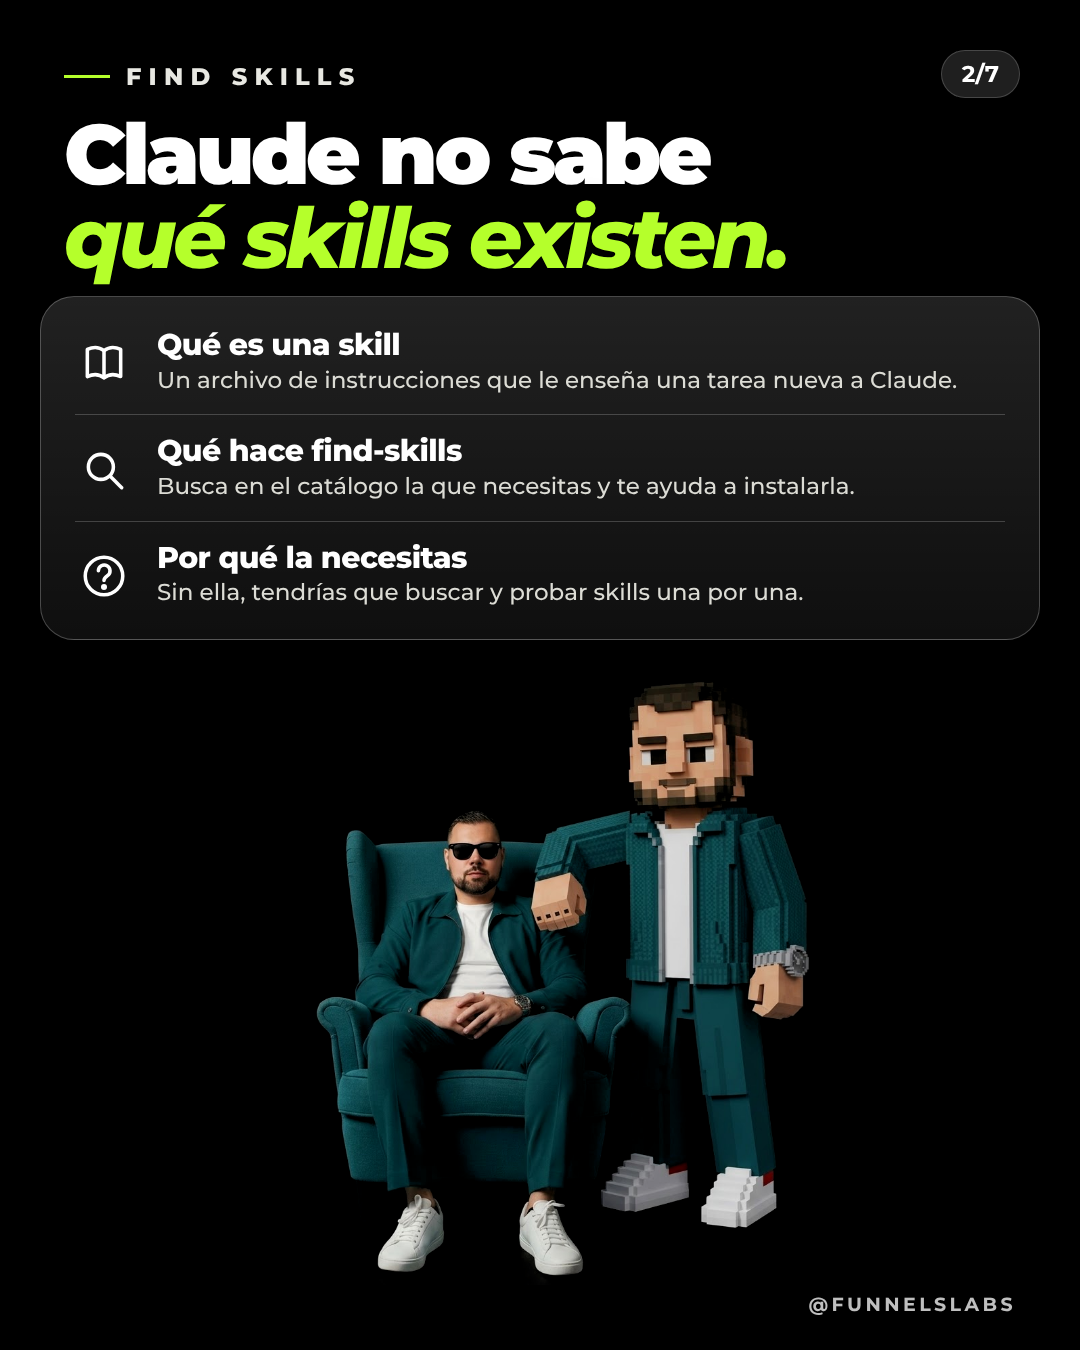
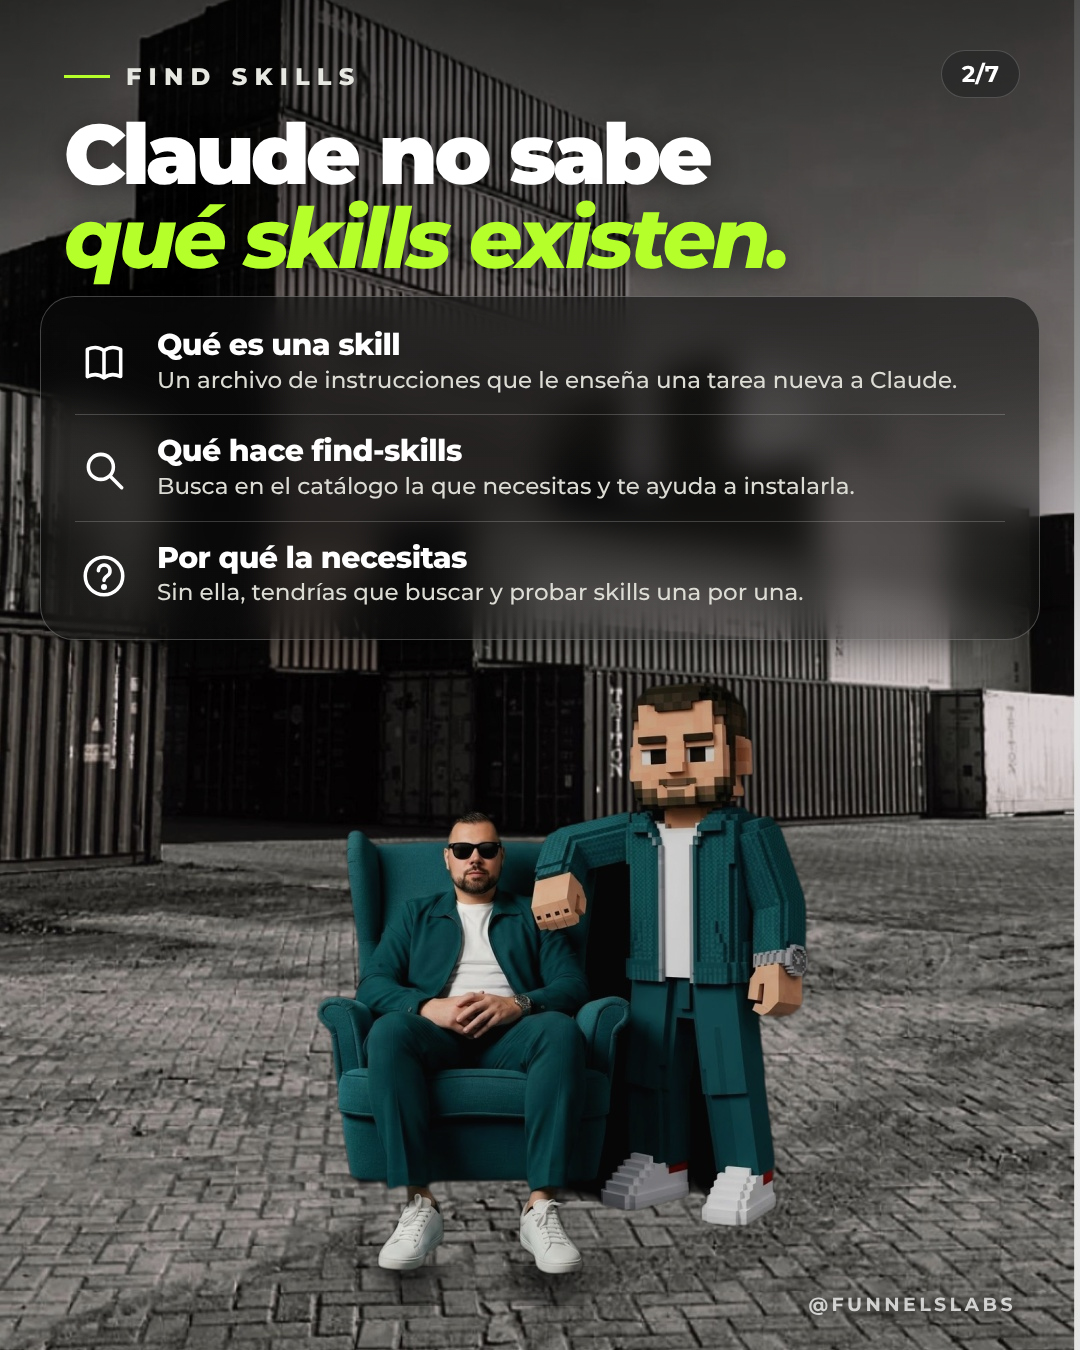
find-skills: fondos urbanos reales detrás de los personajes
Recorte de personajes con rembg y composición sobre 6 fondos (fondos.py),
sombras de contacto y ajuste de color. Slide 4 mantiene el asfalto.

Claude-Session: https://claude.ai/code/session_018d4LXHkXweDJXxfN5x99dL

diff --git a/carruseles/find-skills/carrusel.html b/carruseles/find-skills/carrusel.html
@@ -9,7 +9,7 @@ body{background:#333;font-family:"Montserrat",Arial,sans-serif;display:flex;flex
 .ph{position:absolute;-webkit-mask-image:linear-gradient(90deg,transparent 0,#000 9%,#000 91%,transparent 100%);mask-image:linear-gradient(90deg,transparent 0,#000 9%,#000 91%,transparent 100%)}
 .ph img{display:block;width:100%;height:auto}
 .bleed{position:absolute;inset:0;width:100%;height:100%;object-fit:cover}
-.shade{position:absolute;inset:0;background:linear-gradient(180deg,rgba(0,0,0,.62) 0,rgba(0,0,0,.3) 34%,rgba(0,0,0,0) 52%)}
+.shade{position:absolute;inset:0;background:linear-gradient(180deg,rgba(0,0,0,.66) 0,rgba(0,0,0,.34) 30%,rgba(0,0,0,0) 48%)}
 .n{position:absolute;top:50px;right:60px;z-index:5;background:rgba(40,40,40,.78);border:1px solid rgba(255,255,255,.18);color:#fff;font-weight:700;font-size:23px;padding:9px 20px;border-radius:99px}
 .kick{position:absolute;z-index:5;left:64px;top:62px;font-weight:800;font-size:24px;letter-spacing:.3em;text-transform:uppercase;color:#e8e8e2;display:flex;align-items:center;gap:16px}
 .kick i{width:46px;height:3px;background:var(--lime);display:block}
@@ -18,7 +18,7 @@ body{background:#333;font-family:"Montserrat",Arial,sans-serif;display:flex;flex
 .h .pill{display:inline-block;background:var(--lime);color:#0a0a0a;border-radius:18px;padding:0 22px 6px;margin-left:6px;text-shadow:none}
 .sub{position:absolute;z-index:5;left:64px;right:64px;top:318px;font-weight:600;font-size:31px;line-height:1.3;color:#ececE6;letter-spacing:-0.01em;text-shadow:0 2px 18px rgba(0,0,0,.6)}
 .sub b{color:#fff;font-weight:800}
-.panel{position:absolute;z-index:5;left:40px;right:40px;border-radius:34px;padding:12px 34px;background:linear-gradient(180deg,rgba(255,255,255,.13),rgba(255,255,255,.06));border:1.5px solid rgba(255,255,255,.24);backdrop-filter:blur(18px);-webkit-backdrop-filter:blur(18px);box-shadow:0 30px 60px -30px rgba(0,0,0,.8)}
+.panel{position:absolute;z-index:5;left:40px;right:40px;border-radius:34px;padding:12px 34px;background:linear-gradient(180deg,rgba(12,12,12,.58),rgba(12,12,12,.46));border:1.5px solid rgba(255,255,255,.24);backdrop-filter:blur(18px);-webkit-backdrop-filter:blur(18px);box-shadow:0 30px 60px -30px rgba(0,0,0,.8)}
 .row{display:flex;gap:24px;align-items:center;padding:19px 0;border-bottom:1px solid rgba(255,255,255,.2)}
 .row.last{border-bottom:0}
 .cmp .row{padding:10px 0}.cmp .note{padding-bottom:10px}
@@ -33,17 +33,17 @@ body{background:#333;font-family:"Montserrat",Arial,sans-serif;display:flex;flex
 .note{font-size:23px;font-weight:500;color:#dcdcd5;padding:4px 4px 16px;border-bottom:1px solid rgba(255,255,255,.2)}
 .foot{position:absolute;z-index:6;right:64px;bottom:34px;text-align:right;font-weight:700;font-size:19px;letter-spacing:.18em;text-transform:uppercase;color:rgba(255,255,255,.75);text-shadow:0 2px 12px rgba(0,0,0,.9)}
 </style></head><body>
-<section class="slide"><div class="ph" style="width:860px;top:404px;left:110px;"><img src="img/brazos-c.png"></div><div class="n">1/7</div><div class="kick"><i></i>Find skills</div><div class="h" style="font-size:88px">Instala una sola skill.<br><span class="l">Que sea esta.</span></div><div class="sub">La más instalada de skills.sh: <b>más de 3 millones</b> de instalaciones.</div><div class="foot"><span>@funnelslabs</span></div></section><section class="slide"><div class="ph" style="width:628px;top:662px;left:226px;"><img src="img/silla-lado-c.png"></div><div class="n">2/7</div><div class="kick"><i></i>Find skills</div><div class="h" style="font-size:84px">Claude no sabe<br><span class="l">qué skills existen.</span></div>
+<section class="slide"><img class="bleed" src="img/f1.jpg"><div class="shade"></div><div class="n">1/7</div><div class="kick"><i></i>Find skills</div><div class="h" style="font-size:88px">Instala una sola skill.<br><span class="l">Que sea esta.</span></div><div class="sub">La más instalada de skills.sh: <b>más de 3 millones</b> de instalaciones.</div><div class="foot"><span>@funnelslabs</span></div></section><section class="slide"><img class="bleed" src="img/f2.jpg"><div class="shade"></div><div class="n">2/7</div><div class="kick"><i></i>Find skills</div><div class="h" style="font-size:84px">Claude no sabe<br><span class="l">qué skills existen.</span></div>
 <div class="panel" style="top:296px">
 <div class="row"><span class="ic"><svg viewBox="0 0 24 24" fill="none" stroke="currentColor" stroke-width="1.7" stroke-linecap="round" stroke-linejoin="round"><path d="M4 5.5c3-1.4 5.7-1.2 8 .6 2.3-1.8 5-2 8-.6v13c-3-1.4-5.7-1.2-8 .6-2.3-1.8-5-2-8-.6z"/><path d="M12 6.1v13"/></svg></span><div><b>Qué es una skill</b><span>Un archivo de instrucciones que le enseña una tarea nueva a Claude.</span></div></div>
 <div class="row"><span class="ic"><svg viewBox="0 0 24 24" fill="none" stroke="currentColor" stroke-width="1.7" stroke-linecap="round" stroke-linejoin="round"><circle cx="10.5" cy="10.5" r="6"/><path d="M15 15l5.5 5.5"/></svg></span><div><b>Qué hace find-skills</b><span>Busca en el catálogo la que necesitas y te ayuda a instalarla.</span></div></div>
 <div class="row last"><span class="ic"><svg viewBox="0 0 24 24" fill="none" stroke="currentColor" stroke-width="1.7" stroke-linecap="round" stroke-linejoin="round"><circle cx="12" cy="12" r="9"/><path d="M9.3 9.5a2.8 2.8 0 1 1 4.3 2.4c-.9.6-1.6 1.1-1.6 2.3"/><circle cx="12" cy="17.3" r=".6" fill="currentColor"/></svg></span><div><b>Por qué la necesitas</b><span>Sin ella, tendrías que buscar y probar skills una por una.</span></div></div>
-</div><div class="foot"><span>@funnelslabs</span></div></section><section class="slide"><div class="ph" style="width:545px;top:720px;left:267px;"><img src="img/chat-c.png"></div><div class="n">3/7</div><div class="kick"><i></i>Find skills</div><div class="h" style="font-size:84px">Dile qué necesitas,<br><span class="l">sin saber el nombre.</span></div>
+</div><div class="foot"><span>@funnelslabs</span></div></section><section class="slide"><img class="bleed" src="img/f3.jpg"><div class="shade"></div><div class="n">3/7</div><div class="kick"><i></i>Find skills</div><div class="h" style="font-size:84px">Dile qué necesitas,<br><span class="l">sin saber el nombre.</span></div>
 <div class="panel" style="top:296px">
 <div class="ph2">Pídeselo con tus propias palabras</div>
 <div class="chips"><span>¿Cómo respondo más rápido mis mensajes de WhatsApp?</span><span>Busca una skill para crear mis carruseles.</span><span>¿Existe una skill que revise la ortografía de mis textos?</span></div>
 <div class="row last"><span class="ic"><svg viewBox="0 0 24 24" fill="none" stroke="currentColor" stroke-width="1.7" stroke-linecap="round" stroke-linejoin="round"><path d="M12 3l7.5 3v5.5c0 4.5-3.2 8-7.5 9.5-4.3-1.5-7.5-5-7.5-9.5V6z"/><path d="M9 12l2.2 2.2L15.5 10"/></svg></span><div><b>Antes de instalarla</b><span>Revisa sus auditorías de seguridad en skills.sh. Una skill puede hacer lo mismo que tu Claude.</span></div></div>
-</div><div class="foot"><span>@funnelslabs</span></div></section><section class="slide"><img class="bleed" src="img/asfalto.png"><div class="shade"></div><div class="n">4/7</div><div class="kick"><i></i>Find skills</div><div class="h" style="font-size:96px">Una skill para<br><span class="l">encontrarlas todas.</span></div><div class="sub">Tú le dices qué necesitas. Ella busca por ti.</div><div class="foot"><span>@funnelslabs</span></div></section><section class="slide"><div class="ph" style="width:554px;top:744px;left:263px;"><img src="img/caminando-c.png"></div><div class="n">5/7</div><div class="kick"><i></i>Find skills</div><div class="h" style="font-size:84px">Instálala con<br><span class="l">un solo comando.</span></div>
+</div><div class="foot"><span>@funnelslabs</span></div></section><section class="slide"><img class="bleed" src="img/asfalto.png"><div class="shade"></div><div class="n">4/7</div><div class="kick"><i></i>Find skills</div><div class="h" style="font-size:96px">Una skill para<br><span class="l">encontrarlas todas.</span></div><div class="sub">Tú le dices qué necesitas. Ella busca por ti.</div><div class="foot"><span>@funnelslabs</span></div></section><section class="slide"><img class="bleed" src="img/f5.jpg"><div class="shade"></div><div class="n">5/7</div><div class="kick"><i></i>Find skills</div><div class="h" style="font-size:84px">Instálala con<br><span class="l">un solo comando.</span></div>
 <div class="panel cmp" style="top:296px">
 <div class="code">npx skills add vercel-labs/skills --skill find-skills -a claude-code -g -y</div>
 <div class="note">Pégalo en tu terminal. Queda disponible en todos tus proyectos.</div>
@@ -51,10 +51,10 @@ body{background:#333;font-family:"Montserrat",Arial,sans-serif;display:flex;flex
 <div class="row"><span class="ic"><svg viewBox="0 0 24 24" fill="none" stroke="currentColor" stroke-width="1.7" stroke-linecap="round" stroke-linejoin="round"><path d="M4 5h16v11H9.5L5 20v-4H4z"/></svg></span><div><b>En Claude</b><span>Pídeselo como hablas.</span></div></div>
 <div class="row"><span class="ic"><svg viewBox="0 0 24 24" fill="none" stroke="currentColor" stroke-width="1.7" stroke-linecap="round" stroke-linejoin="round"><rect x="3" y="4.5" width="18" height="15" rx="2.5"/><path d="M7 10l3 2.5L7 15M12.5 15H17"/></svg></span><div><b>En la terminal</b><span><code>npx skills find [palabra]</code></span></div></div>
 <div class="row last"><span class="ic"><svg viewBox="0 0 24 24" fill="none" stroke="currentColor" stroke-width="1.7" stroke-linecap="round" stroke-linejoin="round"><rect x="3" y="4.5" width="18" height="15" rx="2.5"/><path d="M3 9.5h18"/><circle cx="6" cy="7" r=".5" fill="currentColor"/><circle cx="8.2" cy="7" r=".5" fill="currentColor"/></svg></span><div><b>En la web</b><span>skills.sh: las más usadas y las nuevas.</span></div></div>
-</div><div class="foot"><span>@funnelslabs</span></div></section><section class="slide"><div class="ph" style="width:585px;top:690px;left:247px;"><img src="img/modelo-c.png"></div><div class="n">6/7</div><div class="kick"><i></i>Find skills</div><div class="h" style="font-size:88px">Hazla tuya,<br><span class="l">con tus reglas.</span></div>
+</div><div class="foot"><span>@funnelslabs</span></div></section><section class="slide"><img class="bleed" src="img/f6.jpg"><div class="shade"></div><div class="n">6/7</div><div class="kick"><i></i>Find skills</div><div class="h" style="font-size:88px">Hazla tuya,<br><span class="l">con tus reglas.</span></div>
 <div class="panel" style="top:296px">
 <div class="row"><span class="ic"><svg viewBox="0 0 24 24" fill="none" stroke="currentColor" stroke-width="1.7" stroke-linecap="round" stroke-linejoin="round"><circle cx="12" cy="12" r="9"/><path d="M10.5 9.5L12.5 8v8"/></svg></span><div><b>1 · Encuentra la skill</b><span>find-skills te muestra la que más se parece a lo que haces.</span></div></div>
 <div class="row"><span class="ic"><svg viewBox="0 0 24 24" fill="none" stroke="currentColor" stroke-width="1.7" stroke-linecap="round" stroke-linejoin="round"><path d="M4 20l1-4L16.5 4.5a2 2 0 0 1 3 3L8 19z"/><path d="M14.5 6.5l3 3"/></svg></span><div><b>2 · Pídele a Claude que la adapte</b><span>Cuéntale cómo es tu negocio y cómo trabajas.</span></div></div>
 <div class="row last"><span class="ic"><svg viewBox="0 0 24 24" fill="none" stroke="currentColor" stroke-width="1.7" stroke-linecap="round" stroke-linejoin="round"><path d="M3.5 7.5a2 2 0 0 1 2-2H10l2 2.5h6.5a2 2 0 0 1 2 2V17a2 2 0 0 1-2 2h-13a2 2 0 0 1-2-2z"/><rect x="9.5" y="12.5" width="5" height="4" rx=".8"/></svg></span><div><b>3 · Guárdala con otro nombre</b><span>Así, cuando salga una versión nueva, no pierdes tus cambios.</span></div></div>
-</div><div class="foot"><span>@funnelslabs</span></div></section><section class="slide"><div class="ph" style="width:744px;top:430px;left:168px;"><img src="img/abrazo-c.png"></div><div class="n">7/7</div><div class="kick"><i></i>Find skills</div><div class="h" style="font-size:92px">Escribe <span class="pill">SKILLS</span><br><span class="l">y te envío la guía.</span></div><div class="sub">Con el paso a paso para instalarla y adaptarla a tu negocio.</div><div class="foot"><span>@funnelslabs</span></div></section>
+</div><div class="foot"><span>@funnelslabs</span></div></section><section class="slide"><img class="bleed" src="img/f7.jpg"><div class="shade"></div><div class="n">7/7</div><div class="kick"><i></i>Find skills</div><div class="h" style="font-size:92px">Escribe <span class="pill">SKILLS</span><br><span class="l">y te envío la guía.</span></div><div class="sub">Con el paso a paso para instalarla y adaptarla a tu negocio.</div><div class="foot"><span>@funnelslabs</span></div></section>
 </body></html>

diff --git a/carruseles/find-skills/generar.py b/carruseles/find-skills/generar.py
@@ -1,13 +1,5 @@
 import cv2, os
 os.chdir(os.path.dirname(os.path.abspath(__file__)))
-# recortes: (archivo, y0 = fila donde empieza el contenido - margen)
-CROP={'brazos':194,'silla-lado':232,'chat':172,'caminando':227,'modelo':171,'abrazo':72}
-import numpy as np
-for n,y0 in CROP.items():
-    im=cv2.imread(f'img/{n}.png')[y0:].astype(np.float32)
-    m=np.clip((im.max(2)-8)/18,0,1)[...,None]
-    cv2.imwrite(f'img/{n}-c.png',np.clip(im*m,0,255).astype(np.uint8))
-
 ICON={
 'book':'<path d="M4 5.5c3-1.4 5.7-1.2 8 .6 2.3-1.8 5-2 8-.6v13c-3-1.4-5.7-1.2-8 .6-2.3-1.8-5-2-8-.6z"/><path d="M12 6.1v13"/>',
 'search':'<circle cx="10.5" cy="10.5" r="6"/><path d="M15 15l5.5 5.5"/>',
@@ -25,6 +17,7 @@ def row(k,t,d,last=False): return f'<div class="row{" last" if last else ""}"><s
 
 def photo(n,W,T,dx=0,extra=''):
     return f'<div class="ph" style="width:{W}px;top:{T}px;left:{(1080-W)//2+dx}px;{extra}"><img src="img/{n}-c.png"></div>'
+def BG(n): return f'<img class="bleed" src="img/f{n}.jpg"><div class="shade"></div>'
 def head(i,l1,l2,sub=None,size=88):
     s=f'<div class="n">{i}/7</div><div class="kick"><i></i>Find skills</div><div class="h" style="font-size:{size}px">{l1}<br><span class="l">{l2}</span></div>'
     if sub: s+=f'<div class="sub">{sub}</div>'
@@ -33,16 +26,16 @@ foot='<div class="foot"><span>@funnelslabs</span></div>'
 
 S=[]
 # 1 portada
-S.append(f'''<section class="slide">{photo('brazos',860,404)}{head(1,'Instala una sola skill.','Que sea esta.','La más instalada de skills.sh: <b>más de 3 millones</b> de instalaciones.',88)}{foot}</section>''')
+S.append(f'''<section class="slide">{BG(1)}{head(1,'Instala una sola skill.','Que sea esta.','La más instalada de skills.sh: <b>más de 3 millones</b> de instalaciones.',88)}{foot}</section>''')
 # 2 qué es
-S.append(f'''<section class="slide">{photo('silla-lado',628,662)}{head(2,'Claude no sabe','qué skills existen.',None,84)}
+S.append(f'''<section class="slide">{BG(2)}{head(2,'Claude no sabe','qué skills existen.',None,84)}
 <div class="panel" style="top:296px">
 {row('book','Qué es una skill','Un archivo de instrucciones que le enseña una tarea nueva a Claude.')}
 {row('search','Qué hace find-skills','Busca en el catálogo la que necesitas y te ayuda a instalarla.')}
 {row('help','Por qué la necesitas','Sin ella, tendrías que buscar y probar skills una por una.',True)}
 </div>{foot}</section>''')
 # 3 cuéntale
-S.append(f'''<section class="slide">{photo('chat',545,720)}{head(3,'Dile qué necesitas,','sin saber el nombre.',None,84)}
+S.append(f'''<section class="slide">{BG(3)}{head(3,'Dile qué necesitas,','sin saber el nombre.',None,84)}
 <div class="panel" style="top:296px">
 <div class="ph2">Pídeselo con tus propias palabras</div>
 <div class="chips"><span>¿Cómo respondo más rápido mis mensajes de WhatsApp?</span><span>Busca una skill para crear mis carruseles.</span><span>¿Existe una skill que revise la ortografía de mis textos?</span></div>
@@ -51,7 +44,7 @@ S.append(f'''<section class="slide">{photo('chat',545,720)}{head(3,'Dile qué ne
 # 4 afirmación (asfalto a sangre)
 S.append(f'''<section class="slide"><img class="bleed" src="img/asfalto.png"><div class="shade"></div>{head(4,'Una skill para','encontrarlas todas.','Tú le dices qué necesitas. Ella busca por ti.',96)}{foot}</section>''')
 # 5 instalar
-S.append(f'''<section class="slide">{photo('caminando',554,744)}{head(5,'Instálala con','un solo comando.',None,84)}
+S.append(f'''<section class="slide">{BG(5)}{head(5,'Instálala con','un solo comando.',None,84)}
 <div class="panel cmp" style="top:296px">
 <div class="code">npx skills add vercel-labs/skills --skill find-skills -a claude-code -g -y</div>
 <div class="note">Pégalo en tu terminal. Queda disponible en todos tus proyectos.</div>
@@ -61,14 +54,14 @@ S.append(f'''<section class="slide">{photo('caminando',554,744)}{head(5,'Instál
 {row('web','En la web','skills.sh: las más usadas y las nuevas.',True)}
 </div>{foot}</section>''')
 # 6 hazla tuya
-S.append(f'''<section class="slide">{photo('modelo',585,690)}{head(6,'Hazla tuya,','con tus reglas.',None,88)}
+S.append(f'''<section class="slide">{BG(6)}{head(6,'Hazla tuya,','con tus reglas.',None,88)}
 <div class="panel" style="top:296px">
 {row('one','1 · Encuentra la skill','find-skills te muestra la que más se parece a lo que haces.')}
 {row('pencil','2 · Pídele a Claude que la adapte','Cuéntale cómo es tu negocio y cómo trabajas.')}
 {row('folder','3 · Guárdala con otro nombre','Así, cuando salga una versión nueva, no pierdes tus cambios.',True)}
 </div>{foot}</section>''')
 # 7 CTA
-S.append(f'''<section class="slide">{photo('abrazo',744,430)}{head(7,'Escribe <span class="pill">SKILLS</span>','y te envío la guía.','Con el paso a paso para instalarla y adaptarla a tu negocio.',92)}{foot}</section>''')
+S.append(f'''<section class="slide">{BG(7)}{head(7,'Escribe <span class="pill">SKILLS</span>','y te envío la guía.','Con el paso a paso para instalarla y adaptarla a tu negocio.',92)}{foot}</section>''')
 
 css='''
 :root{--lime:#b5ff2b}
@@ -78,7 +71,7 @@ body{background:#333;font-family:"Montserrat",Arial,sans-serif;display:flex;flex
 .ph{position:absolute;-webkit-mask-image:linear-gradient(90deg,transparent 0,#000 9%,#000 91%,transparent 100%);mask-image:linear-gradient(90deg,transparent 0,#000 9%,#000 91%,transparent 100%)}
 .ph img{display:block;width:100%;height:auto}
 .bleed{position:absolute;inset:0;width:100%;height:100%;object-fit:cover}
-.shade{position:absolute;inset:0;background:linear-gradient(180deg,rgba(0,0,0,.62) 0,rgba(0,0,0,.3) 34%,rgba(0,0,0,0) 52%)}
+.shade{position:absolute;inset:0;background:linear-gradient(180deg,rgba(0,0,0,.66) 0,rgba(0,0,0,.34) 30%,rgba(0,0,0,0) 48%)}
 .n{position:absolute;top:50px;right:60px;z-index:5;background:rgba(40,40,40,.78);border:1px solid rgba(255,255,255,.18);color:#fff;font-weight:700;font-size:23px;padding:9px 20px;border-radius:99px}
 .kick{position:absolute;z-index:5;left:64px;top:62px;font-weight:800;font-size:24px;letter-spacing:.3em;text-transform:uppercase;color:#e8e8e2;display:flex;align-items:center;gap:16px}
 .kick i{width:46px;height:3px;background:var(--lime);display:block}
@@ -87,7 +80,7 @@ body{background:#333;font-family:"Montserrat",Arial,sans-serif;display:flex;flex
 .h .pill{display:inline-block;background:var(--lime);color:#0a0a0a;border-radius:18px;padding:0 22px 6px;margin-left:6px;text-shadow:none}
 .sub{position:absolute;z-index:5;left:64px;right:64px;top:318px;font-weight:600;font-size:31px;line-height:1.3;color:#ececE6;letter-spacing:-0.01em;text-shadow:0 2px 18px rgba(0,0,0,.6)}
 .sub b{color:#fff;font-weight:800}
-.panel{position:absolute;z-index:5;left:40px;right:40px;border-radius:34px;padding:12px 34px;background:linear-gradient(180deg,rgba(255,255,255,.13),rgba(255,255,255,.06));border:1.5px solid rgba(255,255,255,.24);backdrop-filter:blur(18px);-webkit-backdrop-filter:blur(18px);box-shadow:0 30px 60px -30px rgba(0,0,0,.8)}
+.panel{position:absolute;z-index:5;left:40px;right:40px;border-radius:34px;padding:12px 34px;background:linear-gradient(180deg,rgba(12,12,12,.58),rgba(12,12,12,.46));border:1.5px solid rgba(255,255,255,.24);backdrop-filter:blur(18px);-webkit-backdrop-filter:blur(18px);box-shadow:0 30px 60px -30px rgba(0,0,0,.8)}
 .row{display:flex;gap:24px;align-items:center;padding:19px 0;border-bottom:1px solid rgba(255,255,255,.2)}
 .row.last{border-bottom:0}
 .cmp .row{padding:10px 0}.cmp .note{padding-bottom:10px}

diff --git a/carruseles/find-skills/fondos.py b/carruseles/find-skills/fondos.py
@@ -1,0 +1,78 @@
+# Compone los personajes (recortes bg/cut-*.png) sobre las fotos de fondo (bg/orig-*.jpg)
+# y deja un fondo 1080x1350 por slide en img/f<N>.jpg
+import cv2, numpy as np, os
+from PIL import Image
+os.chdir(os.path.dirname(os.path.abspath(__file__)))
+W,H=1080,1350
+# slide: (fondo, personaje, y0 del recorte original, ancho, top, dx, ajustes del fondo)
+CFG={
+ 1:dict(bg=1,ch='brazos',   y0=194,w=860,top=404,dx=0, shift=0.0,bright=.92),
+ 2:dict(bg=2,ch='silla-lado',y0=232,w=628,top=662,dx=0,shift=1.0,bright=.90),
+ 3:dict(bg=3,ch='chat',     y0=172,w=545,top=720,dx=0, shift=1.0,bright=.95),
+ 5:dict(bg=4,ch='caminando',y0=227,w=554,top=744,dx=0, shift=1.0,bright=.85,billboard=True),
+ 6:dict(bg=5,ch='modelo',   y0=171,w=585,top=690,dx=0, shift=1.0,bright=.95),
+ 7:dict(bg=6,ch='abrazo',   y0=72, w=744,top=430,dx=0, shift=0.0,bright=1.0,floor=True),
+}
+def load_bg(n,c):
+    im=cv2.imread(f'bg/orig-{n}.jpg'); h,w=im.shape[:2]
+    im=im[4:h-14,16:w-4]            # quita el margen de la captura
+    if c.get('billboard'):          # tapa el cartel blanco
+        h,w=im.shape[:2]
+        sub=(im[420:900,480:800].min(2)>225).astype(np.uint8)
+        sub=cv2.dilate(sub,np.ones((21,21),np.uint8)).astype(bool)
+        ring=im[400:920,460:820].reshape(-1,3)[~np.pad(sub,((20,20),(20,20)))[:520,:360].reshape(-1)]
+        col=np.median(ring,0)
+        noise=np.random.default_rng(1).normal(0,3,(480,320,1))
+        patch=im[420:900,480:800].astype(np.float32)
+        patch[sub]=(col+noise.repeat(3,2))[sub]
+        im[420:900,480:800]=np.clip(cv2.GaussianBlur(patch,(0,0),2),0,255).astype(np.uint8)
+    h,w=im.shape[:2]
+    s=max(W/w,H/h); im=cv2.resize(im,(int(w*s)+1,int(h*s)+1),interpolation=cv2.INTER_AREA if s<1 else cv2.INTER_CUBIC)
+    h,w=im.shape[:2]
+    x0=(w-W)//2; y0=int((h-H)*c['shift'])   # shift=1 -> alinea abajo (suelo), 0 -> arriba
+    im=im[y0:y0+H,x0:x0+W].astype(np.float32)*c['bright']
+    if c.get('floor'):              # suelo oscuro para pared sin piso
+        yy=np.linspace(0,1,H)[:,None,None]
+        k=np.clip((yy-0.80)/0.20,0,1)**1.3
+        im=im*(1-0.78*k)+np.array([14,12,10],np.float32)*0.78*k
+    return im
+def cut(c):
+    a=np.array(Image.open(f'bg/cut-{c["ch"]}.png'))
+    rgb=a[...,2::-1].astype(np.float32); al=a[...,3].astype(np.float32)/255
+    al=np.clip((al-.25)/.6,0,1)                        # quita velos débiles
+    al=cv2.erode(al,np.ones((3,3),np.uint8))
+    n,lab,st,_=cv2.connectedComponentsWithStats((al>.3).astype(np.uint8))
+    keep=np.zeros_like(al)
+    for i in range(1,n):
+        if st[i,4]>2500: keep[lab==i]=1
+    al=cv2.GaussianBlur(al*cv2.dilate(keep,np.ones((5,5),np.uint8)),(0,0),0.8)
+    return rgb,al
+def place(rgb,al,c):
+    s=c['w']/rgb.shape[1]
+    nw,nh=int(rgb.shape[1]*s),int(rgb.shape[0]*s)
+    rgb=cv2.resize(rgb,(nw,nh),interpolation=cv2.INTER_AREA); al=cv2.resize(al,(nw,nh),interpolation=cv2.INTER_AREA)
+    left=(W-c['w'])//2+c['dx']; top=int(c['top']-c['y0']*s)
+    R=np.zeros((H,W,3),np.float32); A=np.zeros((H,W),np.float32)
+    ys0,xs0=max(top,0),max(left,0); ys1,xs1=min(top+nh,H),min(left+nw,W)
+    R[ys0:ys1,xs0:xs1]=rgb[ys0-top:ys1-top,xs0-left:xs1-left]; A[ys0:ys1,xs0:xs1]=al[ys0-top:ys1-top,xs0-left:xs1-left]
+    return R,A
+def shadow(A):
+    ys,xs=np.where(A>.5); yb=ys.max(); h=110
+    band=A[yb-h:yb+1].copy(); band[:h-55]=0                 # solo la zona de los zapatos
+    band=np.flipud(band); sq=cv2.resize(band,(W,int(band.shape[0]*.22)))
+    sh=np.zeros_like(A); y=yb-8
+    sh[y:y+sq.shape[0],:]=sq[:H-y]
+    sh=cv2.GaussianBlur(sh,(0,0),11)
+    wide=cv2.GaussianBlur(A[yb-30:yb+1].max(0,keepdims=True).repeat(40,0),(0,0),20)  # sombra ancha suave
+    big=np.zeros_like(A); big[yb-6:yb+34]=wide[:,:]
+    return np.clip(sh*1.1+big*.5,0,.7)
+for n,c in CFG.items():
+    bg=load_bg(c['bg'],c); rgb,al=cut(c); R,A=place(rgb,al,c)
+    sh=shadow(A)[...,None]
+    bg=bg*(1-sh*0.85)
+    # un poco del color ambiente sobre el personaje, para que no se vea pegado
+    amb=bg.reshape(-1,3).mean(0)
+    R=R*0.93+amb*0.07
+    out=R*A[...,None]+bg*(1-A[...,None])
+    cv2.imwrite(f'img/f{n}.jpg',np.clip(out,0,255).astype(np.uint8),[cv2.IMWRITE_JPEG_QUALITY,95])
+    print('ok',n)
